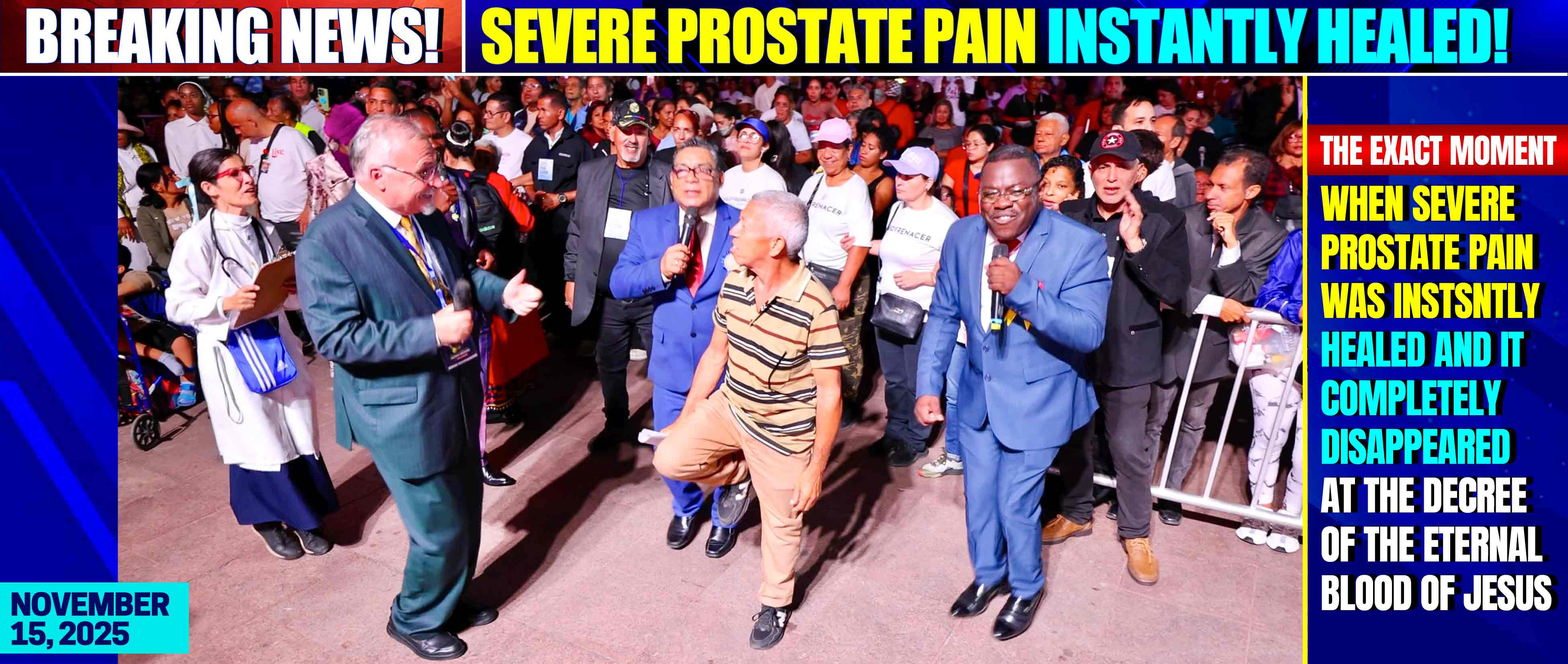
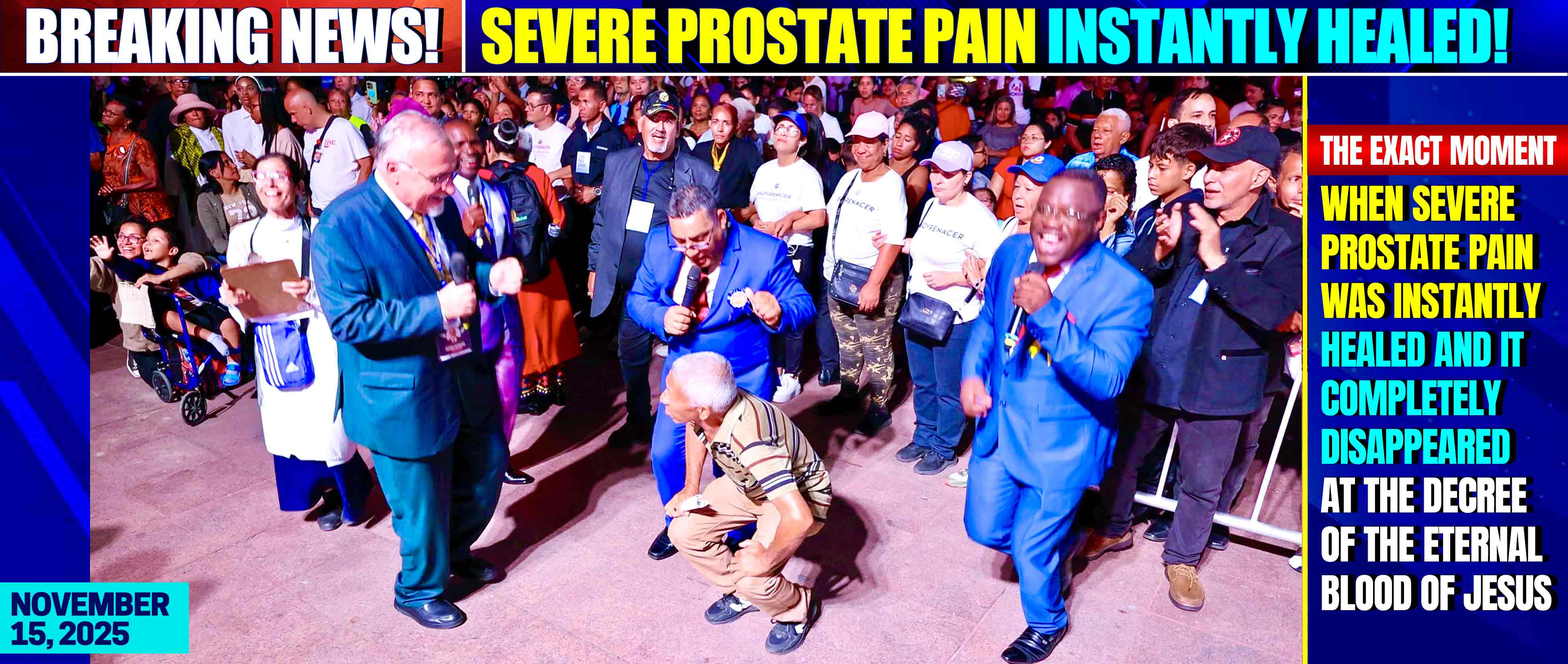
New

diff --git a/index.html b/index.html
@@ -47,6 +47,9 @@
        <img class="slideshow" src= "https://pub-9f92551086574e82abebdc7b9c83cf92.r2.dev/Caracas%202025/Healing%20Service/Shrivelled.jpg" alt="Unstable internet, please refresh the browser">
        <img class="slideshow" src= "https://pub-9f92551086574e82abebdc7b9c83cf92.r2.dev/Caracas%202025/Healing%20Service/Shrivelled-1.jpg" alt="Unstable internet, please refresh the browser">
 
+        <img class="slideshow" src= "https://pub-9f92551086574e82abebdc7b9c83cf92.r2.dev/Caracas%202025/Healing%20Service/Hip-1.jpg" alt="Unstable internet, please refresh the browser">
+        <img class="slideshow" src= "https://pub-9f92551086574e82abebdc7b9c83cf92.r2.dev/Caracas%202025/Healing%20Service/Hip-1.jpg" alt="Unstable internet, please refresh the browser">
+
 
         <img class="slideshow" src= "https://pub-9f92551086574e82abebdc7b9c83cf92.r2.dev/Caracas%202025/Healing%20Service/Lame-5.jpg" alt="Unstable internet, please refresh the browser">
         <img class="slideshow" src= "https://pub-9f92551086574e82abebdc7b9c83cf92.r2.dev/Caracas%202025/Healing%20Service/Lame-6.jpg" alt="Unstable internet, please refresh the browser">
@@ -60,9 +63,10 @@
 
 
       <img class="slideshow" src= "https://pub-9f92551086574e82abebdc7b9c83cf92.r2.dev/Caracas%202025/Healing%20Service/PROSTATE-PAIN.jpg" alt="Unstable internet, please refresh the browser">
+      <img class="slideshow" src= "https://pub-9f92551086574e82abebdc7b9c83cf92.r2.dev/Caracas%202025/Healing%20Service/PROSTATE-PAIN-1.jpg" alt="Unstable internet, please refresh the browser">
 
       <img class="slideshow" src= "https://pub-9f92551086574e82abebdc7b9c83cf92.r2.dev/Caracas%202025/Healing%20Service/Spinal-condition.jpg" alt="Unstable internet, please refresh the browser">
-      <img class="slideshow" src= "https://pub-9f92551086574e82abebdc7b9c83cf92.r2.dev/Caracas%202025/Healing%20Service/Spinal-condition.jpg" alt="Unstable internet, please refresh the browser">
+      <img class="slideshow" src= "https://pub-9f92551086574e82abebdc7b9c83cf92.r2.dev/Caracas%202025/Healing%20Service/Spinal-condition-1.jpg" alt="Unstable internet, please refresh the browser">
 
       
 
